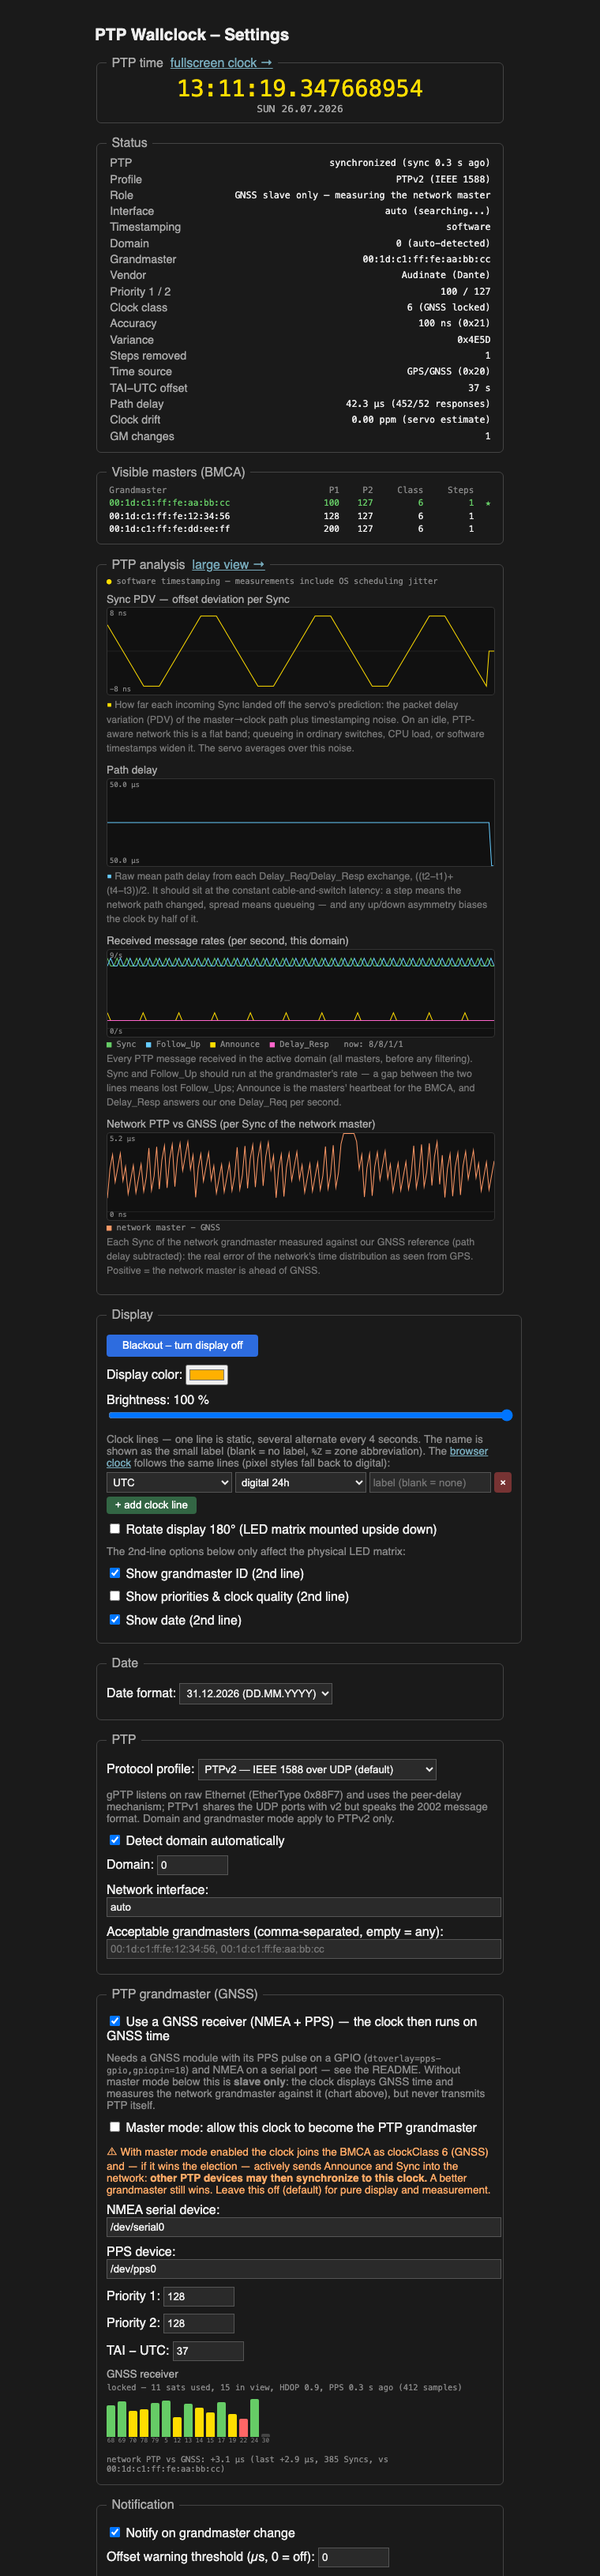
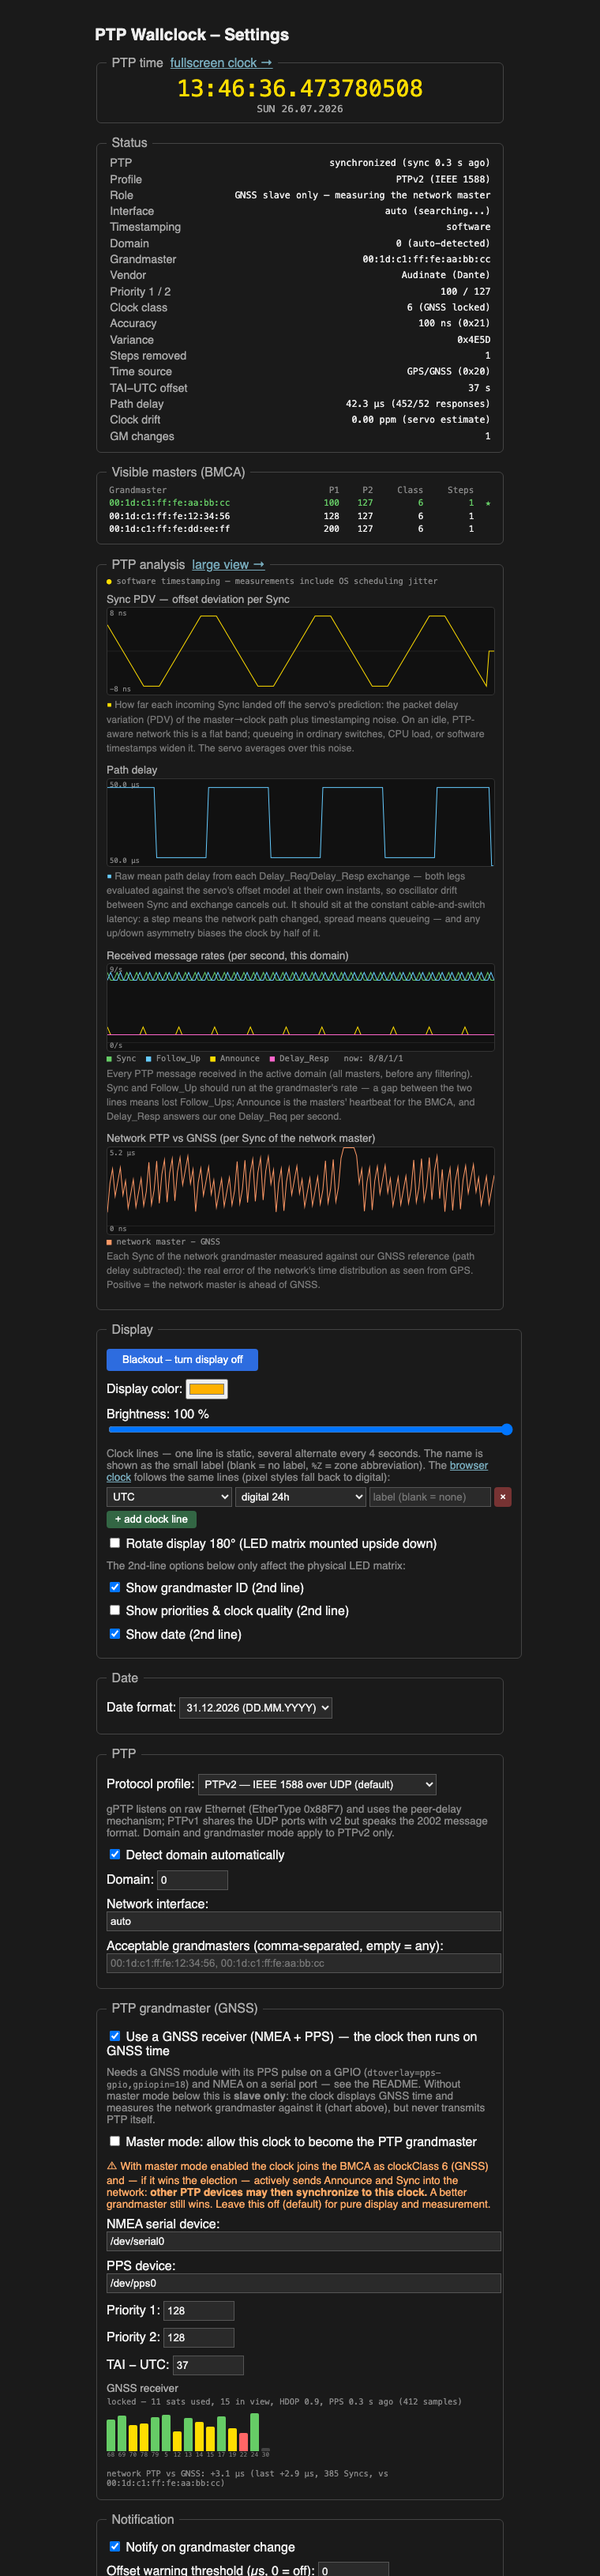
Drift-corrected path-delay measurement
The classic ((t2-t1)+(t4-t3))/2 is only exact while the offset holds
still between the last Sync and the Delay exchange — oscillator drift
in that up-to-a-second gap leaked 1-2 us of apparent delay variation
into every sample. Both legs are now evaluated against the servo's
offset model at their own instants (a common servo bias cancels between
the legs, so this stays exact even before convergence). When the last
reference pair came from GNSS there is no forward path — the return leg
alone carries the delay, measured against the GNSS-true offset.

diff --git a/ptp-clock.cpp b/ptp-clock.cpp
@@ -280,6 +280,7 @@ static PendingSync g_pending_sync;
 static bool g_have_pair = false;          // valid (t1, t2) from last Sync
 static int64_t g_last_t1 = 0;             // master send time (TAI ns, corrected)
 static int64_t g_last_t2 = 0;             // local arrival time (mono ns)
+static bool g_last_pair_wire = true;      // false: GNSS pair (no path)
 
 struct PendingDelayReq {
     bool valid = false;
@@ -953,6 +954,7 @@ static void format_signed_offset(char *out, size_t n, long long ns) {
 static void complete_sync_pair(int64_t t1, int64_t t2, bool wire = true) {
     g_last_t1 = t1;
     g_last_t2 = t2;
+    g_last_pair_wire = wire;
     g_have_pair = true;
 
     // A GNSS sample has no network path, so no mean path delay applies
@@ -1143,9 +1145,23 @@ static void process_general_packet(const uint8_t *buf, ssize_t len,
         int64_t t3 = (int64_t)g_pending_dreq.t3_mono;
         g_pending_dreq.valid = false;
 
-        // meanPathDelay = ((t2 - t1) + (t4 - t3)) / 2 - correction
-        int64_t sample = ((g_last_t2 - g_last_t1) + (t4 - t3)) / 2
+        // Drift-corrected mean path delay: each leg is evaluated with
+        // the servo's offset model at its own instant, so oscillator
+        // drift between the last Sync and this exchange cancels instead
+        // of leaking a few us into the measurement. A servo bias common
+        // to both instants cancels between the legs. A GNSS reference
+        // pair has no network path — then the return leg alone (whose
+        // offset IS the GNSS truth) carries the delay.
+        int64_t d_back = t4 - (t3 - offset_at((uint64_t)t3))
                          - corr_to_ns(buf + 8);
+        int64_t sample;
+        if (g_last_pair_wire) {
+            int64_t d_fwd =
+                (g_last_t2 - offset_at((uint64_t)g_last_t2)) - g_last_t1;
+            sample = (d_fwd + d_back) / 2;
+        } else {
+            sample = d_back;
+        }
         if (sample < 0)
             sample = 0;
         if (sample > 1000000000LL)        // > 1 s: bogus, discard
@@ -1940,7 +1956,16 @@ static void process_v1_general(const uint8_t *buf, ssize_t len,
             (int64_t)current_utc_offset.load() * 1000000000LL;
         int64_t t3 = (int64_t)g_pending_dreq.t3_mono;
         g_pending_dreq.valid = false;
-        int64_t sample = ((g_last_t2 - g_last_t1) + (t4 - t3)) / 2;
+        // Same drift-corrected leg-by-leg computation as the v2 handler
+        int64_t d_back = t4 - (t3 - offset_at((uint64_t)t3));
+        int64_t sample;
+        if (g_last_pair_wire) {
+            int64_t d_fwd =
+                (g_last_t2 - offset_at((uint64_t)g_last_t2)) - g_last_t1;
+            sample = (d_fwd + d_back) / 2;
+        } else {
+            sample = d_back;
+        }
         if (sample < 0)
             sample = 0;
         if (sample > 1000000000LL)
@@ -2550,11 +2575,12 @@ over this noise.</p>
 <div class="chart-title">Path delay</div>
 <canvas class="chart" id="ch_del"></canvas>
 <p class="chart-desc"><span style="color:#6cf">&#9632;</span> Raw mean
-path delay from each Delay_Req/Delay_Resp exchange,
-((t2&minus;t1)+(t4&minus;t3))/2. It should sit at the constant
-cable-and-switch latency: a step means the network path changed, spread
-means queueing &mdash; and any up/down asymmetry biases the clock by half
-of it.</p>
+path delay from each Delay_Req/Delay_Resp exchange &mdash; both legs
+evaluated against the servo's offset model at their own instants, so
+oscillator drift between Sync and exchange cancels out. It should sit at
+the constant cable-and-switch latency: a step means the network path
+changed, spread means queueing &mdash; and any up/down asymmetry biases
+the clock by half of it.</p>
 <div class="chart-title">Received message rates (per second, this domain)</div>
 <canvas class="chart" id="ch_rate"></canvas>
 <div class="chart-legend"><span style="color:#6c6">&#9632;</span> Sync
@@ -3268,11 +3294,12 @@ over this noise.</p>
 <div class="chart-title">Path delay</div>
 <canvas id="ch_del" style="height:26vh"></canvas>
 <p class="chart-desc"><span style="color:#6cf">&#9632;</span> Raw mean
-path delay from each Delay_Req/Delay_Resp exchange,
-((t2&minus;t1)+(t4&minus;t3))/2. It should sit at the constant
-cable-and-switch latency: a step means the network path changed, spread
-means queueing &mdash; and any up/down asymmetry biases the clock by half
-of it.</p>
+path delay from each Delay_Req/Delay_Resp exchange &mdash; both legs
+evaluated against the servo's offset model at their own instants, so
+oscillator drift between Sync and exchange cancels out. It should sit at
+the constant cable-and-switch latency: a step means the network path
+changed, spread means queueing &mdash; and any up/down asymmetry biases
+the clock by half of it.</p>
 <div class="chart-title">Received message rates (per second, this domain)</div>
 <canvas id="ch_rate" style="height:26vh"></canvas>
 <div class="chart-legend"><span style="color:#6c6">&#9632;</span> Sync

diff --git a/README.md b/README.md
@@ -378,8 +378,11 @@ The clock is disciplined by a small **PI servo** that estimates offset
 the status panel): a plain crystal's ppm error no longer causes a
 standing lag behind the master (offset-only smoothing lags by
 freq × time-constant — ~160 µs at 20 ppm), and the displayed time runs
-frequency-corrected between correction samples. Delay_Resp measurements
-are smoothed with a small exponential filter. Note that the LED refresh and the browser
+frequency-corrected between correction samples. Path-delay measurements
+are computed leg by leg against the same servo model — oscillator drift
+between the Sync and the Delay exchange cancels instead of adding a few
+µs of apparent delay variation — and smoothed with a small exponential
+filter. Note that the LED refresh and the browser
 rendering add their own few milliseconds — hardware timestamping makes
 the *measurements* honest (visible in the PTP analysis charts), not the
 photons faster.
